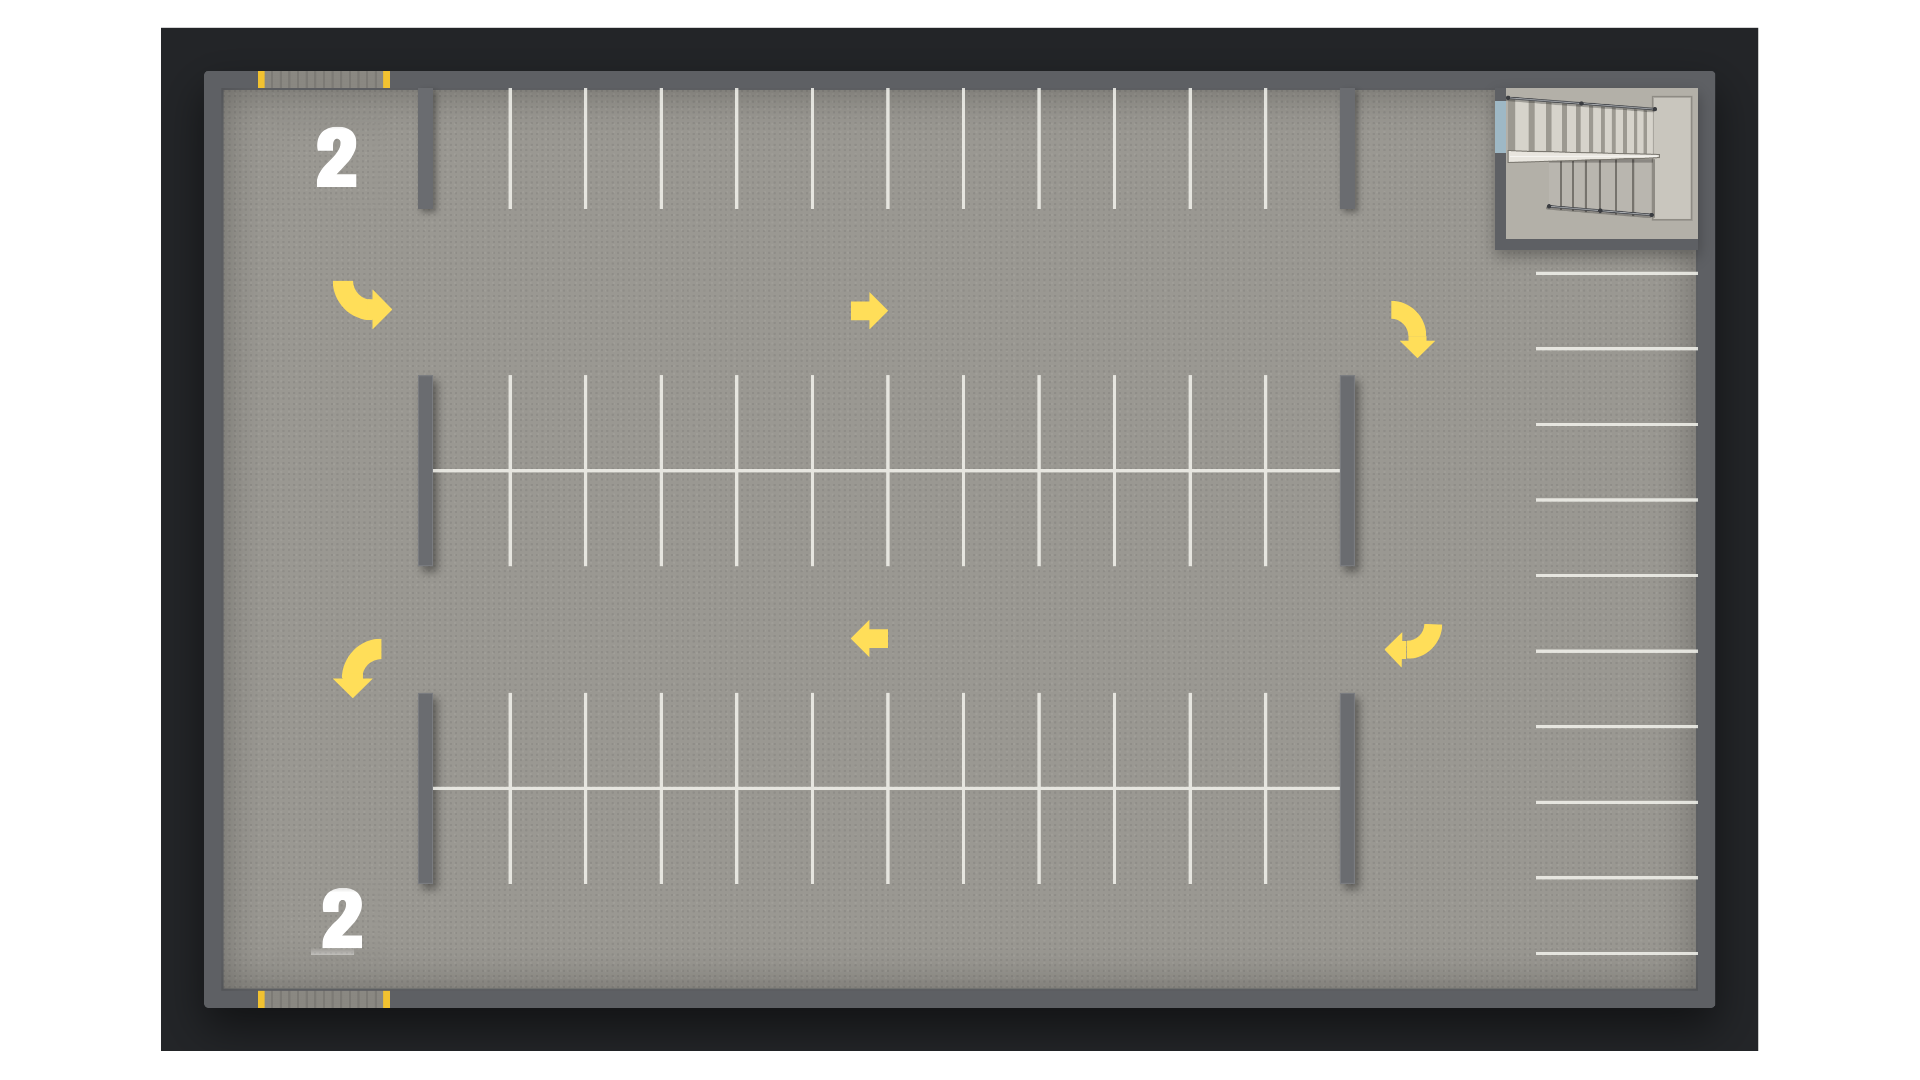
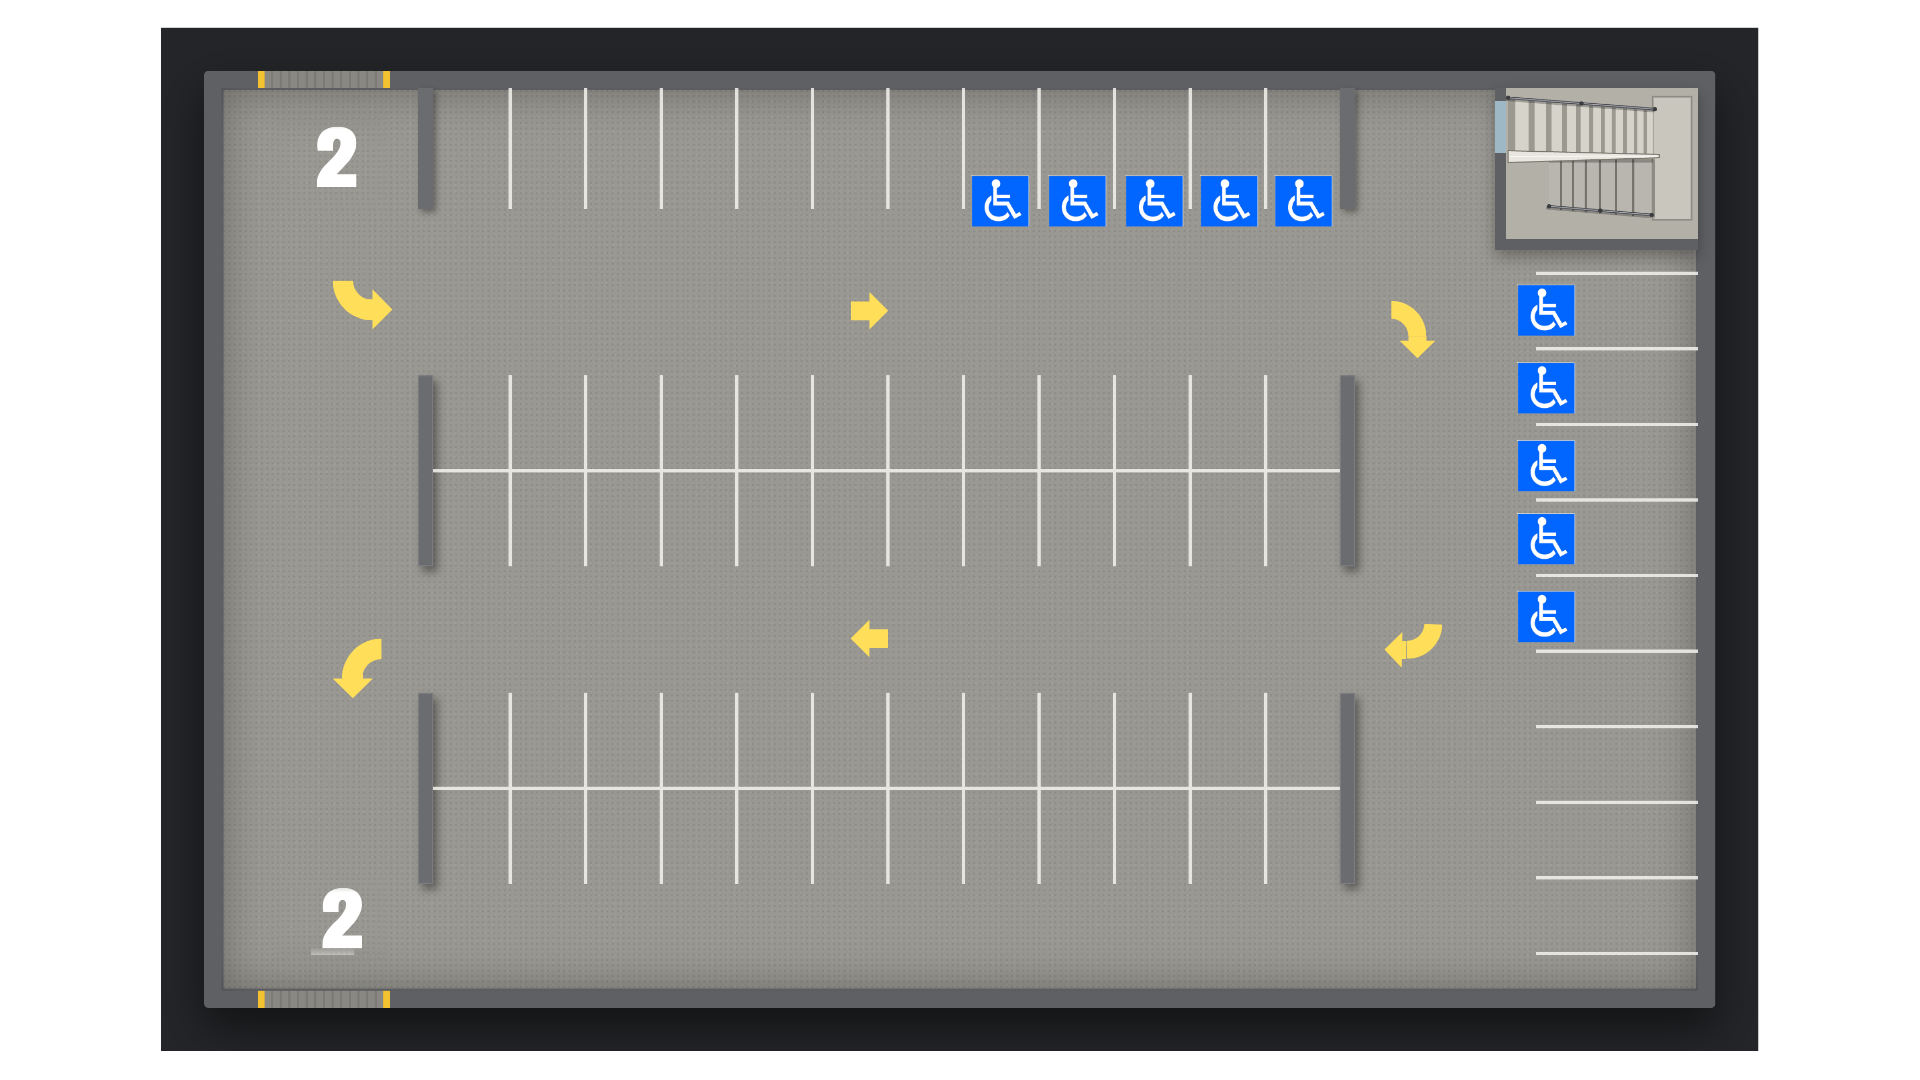
Add wheelchair badges to PWD stalls on all three floor images
Composited the 10 PWD wheelchair badges from the updated reference
onto the current floor-1.png (pixel-diffed first to confirm it's the
same base image plus just the badges, and pasted only those exact
badge pixels - not a wholesale swap - to avoid reintroducing the
floor-2/3 drift the previous commit fixed). Re-ran the digit-swap
compositing to propagate the badges into floor-2.png/floor-3.png.

No code changes - the badge shows through the existing translucent
status marker on its own.

Claude-Session: https://claude.ai/code/session_0168q6cWBfdfgfqU9PdyrioH

Changed region(s): [[0.7812, 0.2444, 0.8438, 0.6111], [0.5, 0.1528, 0.7188, 0.2139]]

diff --git a/Alex's changes.md b/Alex's changes.md
@@ -384,3 +384,9 @@ The colored-dot markers from Round 9/10 were deliberately unlabeled (to match th
 The coordinates were hand-marked against floor 1's actual image, but floors 2 and 3 are *separately generated* images - the overall composition matches, but stall positions shift by a handful of pixels from floor to floor (confirmed earlier, Round 9's measurement notes). That's exactly what caused the slight drift you flagged on floors 2/3.
 
 Fixed properly this time, not just approximated: `floor-2.png` and `floor-3.png` are now floor 1's actual image with only the floor-number digit (top-left and bottom-left) swapped in from each floor's original artwork - composited in Python with a feathered paste so there's no visible seam (checked closely; the faint line under each digit is a drop-shadow baked into floor 1's own original art, not an artifact). Everything else - every divider, tick mark, arrow, the elevator icon - is now byte-identical across all three floor images, so the same hand-marked coordinates land exactly right on every floor. Verified live: switched between all three floors, every one of the 69 labels sits precisely on its stall with no drift, only the corner digit and status data change.
+
+### PWD stalls now show an actual wheelchair badge, not just a blue ring
+
+You sent an updated version of the floor 1 reference with wheelchair-symbol badges drawn directly on the 10 PWD stalls (5 in the main row, 5 along the side). Pixel-diffed it against the live `floor-1.png` first to confirm it really was the same base image plus just the badges (it was - about 2.6% of pixels differed, in exactly 10 badge-shaped blobs, plus some incidental re-render noise elsewhere that was *not* copied over, to avoid reintroducing the floor-2/3 drift problem from the previous fix). Composited only those exact badge pixels onto the current, proven-aligned `floor-1.png`, then re-ran the same digit-swap process to propagate the badges into `floor-2.png`/`floor-3.png` too.
+
+No code changes needed - the badge shows through the existing translucent status marker cleanly (confirmed live, all three floors), so a PWD stall now visibly reads as a wheelchair icon at a glance instead of only a blue ring you'd have to notice.
